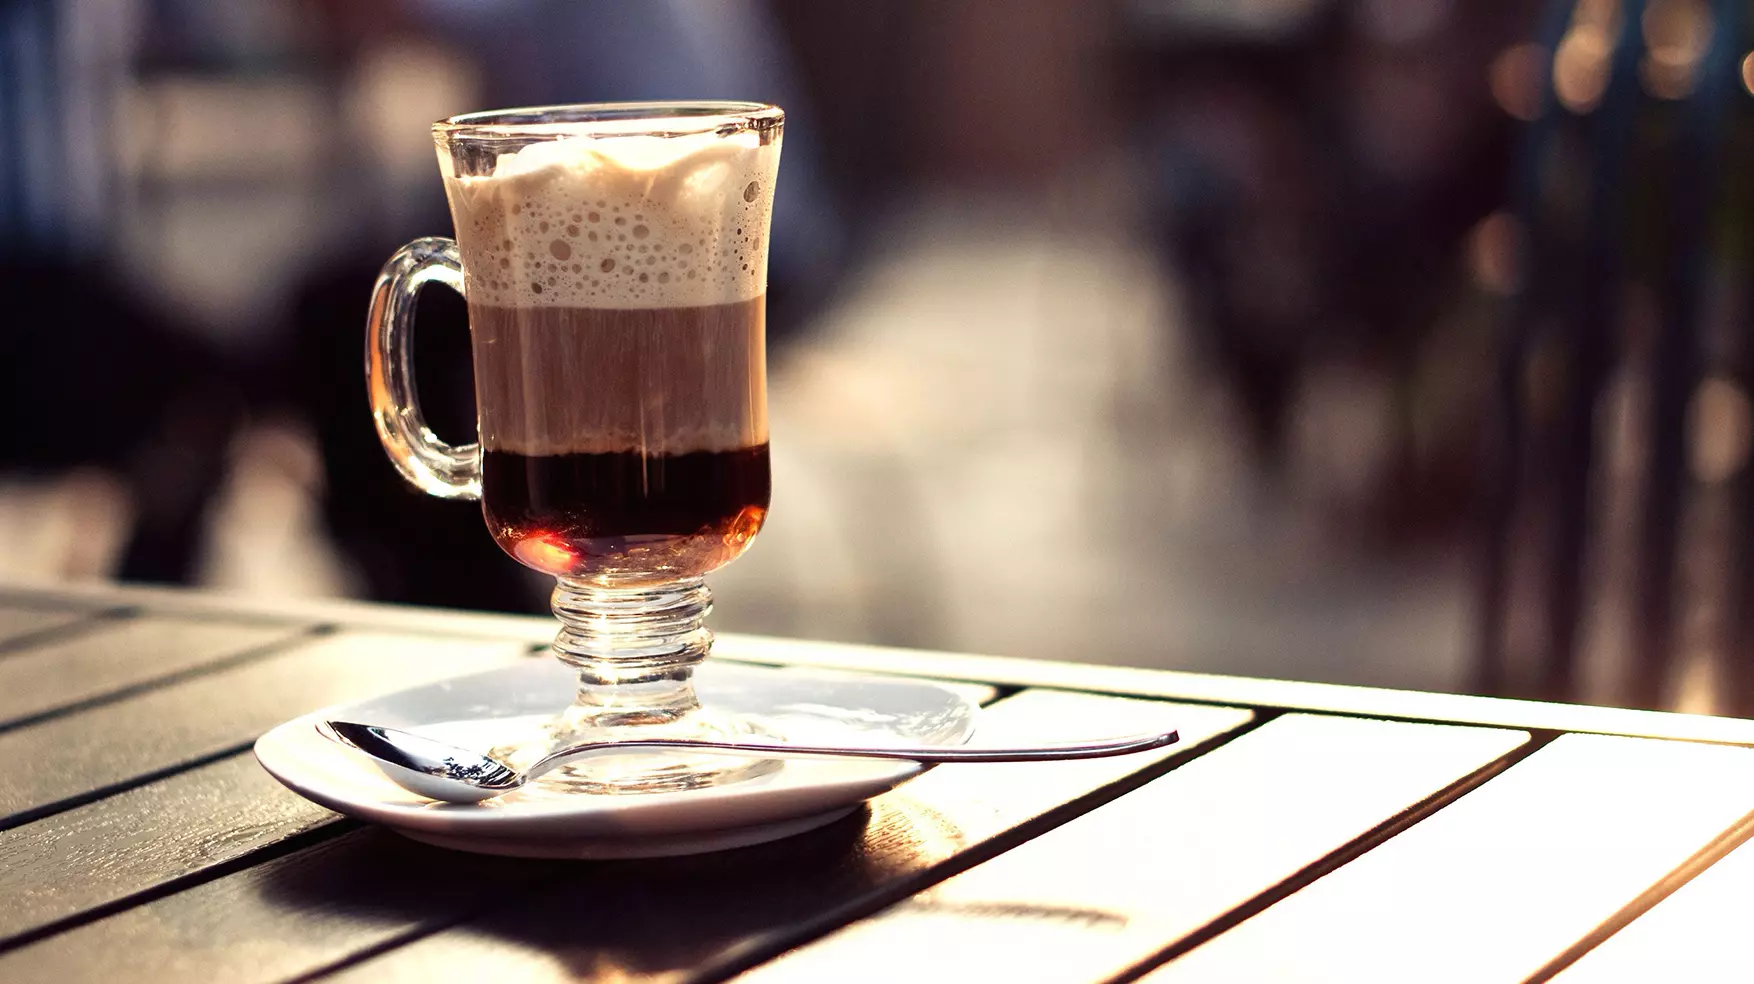
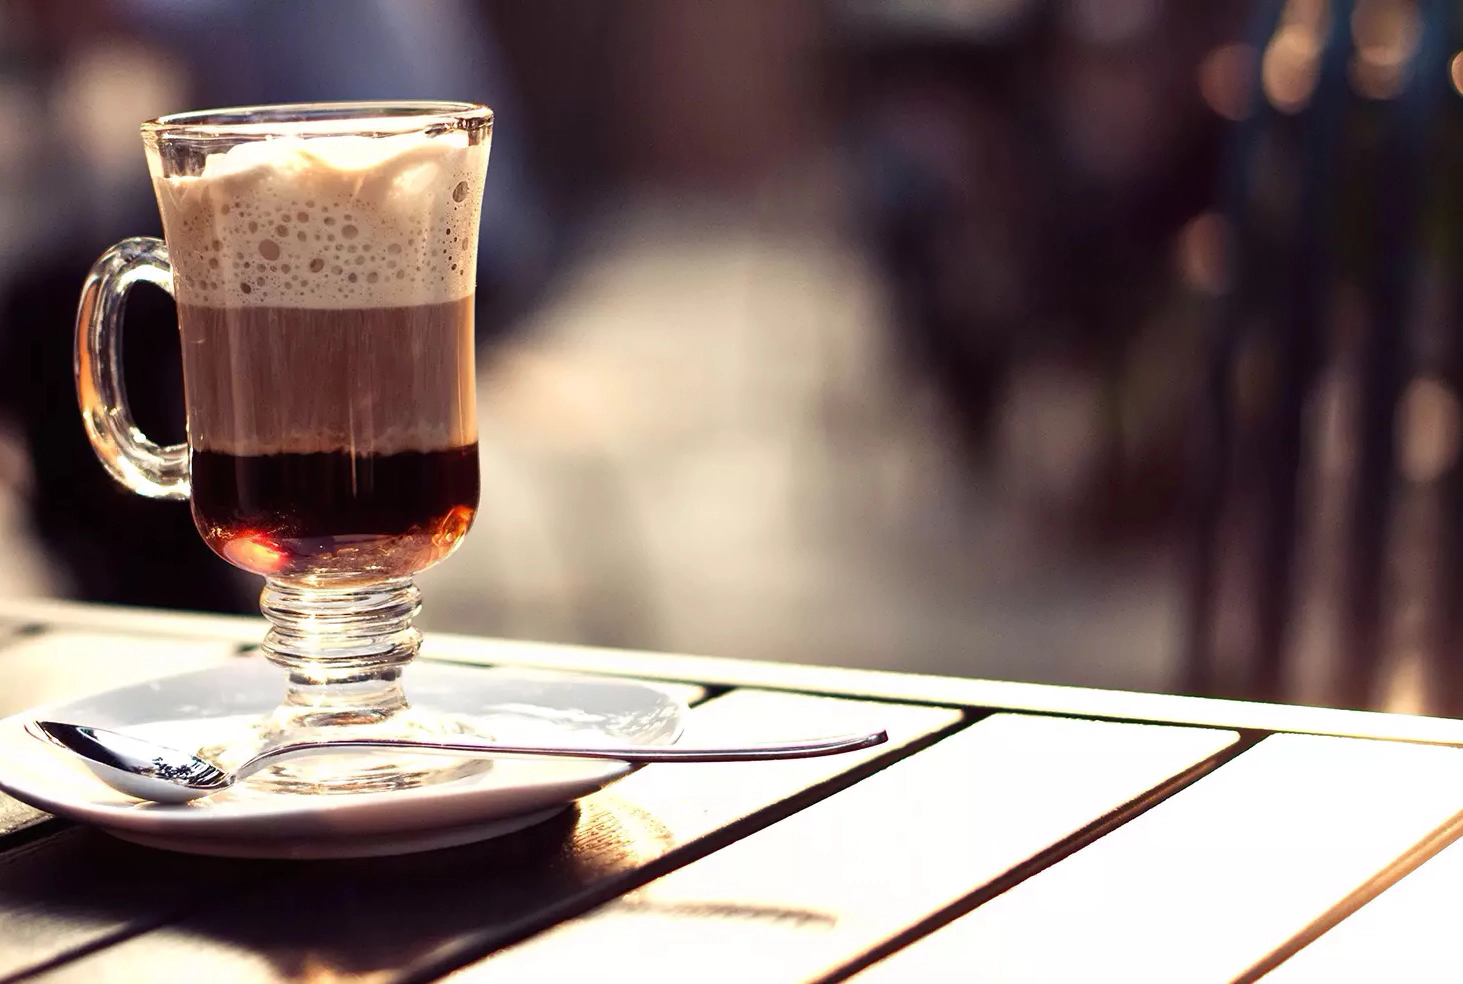
edição no background-image

diff --git a/estilo.css b/estilo.css
@@ -19,31 +19,19 @@
 }
 
 body {
-    max-height: 100vh;
-    width: 100vw;
-    background-color: var(--login);
-    background-image: url(imagem/cafe-1750.webp);
+    height: 98vh;
+    width: 98vw;
+    background-image: url(imagem/cafe-1750-1.webp);
     background-repeat: no-repeat;
     background-size: cover;
+    background-position: top center;
+
 }
 
-
-
-@media screen and (min-width: 950px) and (max-width: 1050px) {
-    body {
-        background-image: url(imagem/cafe-1024.webp);
-    }
-}
-
-@media screen and (min-width: 871px) and (max-width: 949px) {
-    body {
-        background-image: url(imagem/cafe-800.webp);
-    }
-}
 
 @media screen and (min-width: 481px) and (max-width: 870px) {
     body {
-        background-image: url(imagem/cafe-600.webp);
+        background-image: url(imagem/cafe-1750.webp);
         background-position: top left;
     }
 }
